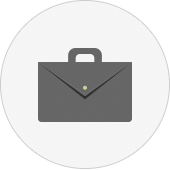
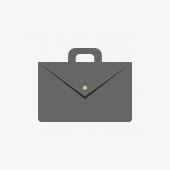
cambiate le immagini del menu

diff --git a/assets/css/style.css b/assets/css/style.css
@@ -247,54 +247,21 @@ a:hover, a:visited, a:focus, a:active{
 }
 .menu .menu-li .foto {
     display: block;
+
+    border-radius: 50%;
+    border-width: 1px;
+    border-style: solid;
+    border-color: #6e6e6e;
+    width: 170px;
+    height: 170px;
+    overflow: hidden;
+
+
 }
 .menu .menu-li .name{
     text-underline: none;
     margin-top: 13px;
     display: block;
-}
-
-.menu-style1{
-    padding: 48px 0;
-    text-align: center;
-}
-.menu-style1 .menu-li{
-    display: inline-block;
-    position: relative;
-    width: 170px;
-    height: 170px;
-    margin-left: 20px;
-    margin-right: 20px;
-    overflow: hidden;
-    border-style: solid;
-    border-width: 1px;
-    border-radius: 50%;
-    border-color: #cccccc;
-}
-.menu-style1 .menu-li .name{
-    text-underline: none;
-    top: 0px;
-    padding-top: 75px;
-    display: block;
-    text-align: center;
-    width: 170px;
-    height: 170px;
-    font-size: 21px;
-    z-index: 3;
-}
-.menu-style1 .menu-li .foto{
-    display: block;
-    overflow: hidden;
-    z-index: 4;
-    position: relative;
-    -webkit-transition: all 0.5s ease-in-out;
-    -moz-transition: all 0.5s ease-in-out;
-    -ms-transition: all 0.5s ease-in-out;
-    -o-transition: all 0.5s ease-in-out;
-    transition: all 0.5s ease-in-out;
-}
-.menu-style1 .menu-li:hover .foto{
-    margin-top: -172px;
 }
 
 .small-menu{

diff --git a/assets/css/colour-scheme/color-blue.css b/assets/css/colour-scheme/color-blue.css
@@ -81,17 +81,6 @@ body {
 .menu .menu-li .name{
     color: #000000;
 }
-.menu-style1 .menu-li .foto{
-    border-color: #cccccc;
-}
-.menu-style1 .menu-li .name{
-    border-color: #ccc;
-    background-color: #f5f5f5;
-    color: #222;
-}
-.menu-style1 .menu-li{
-    border-color: #cccccc;
-}
 
 .icons-menu-button,
 .icons-menu-toggle-button {
